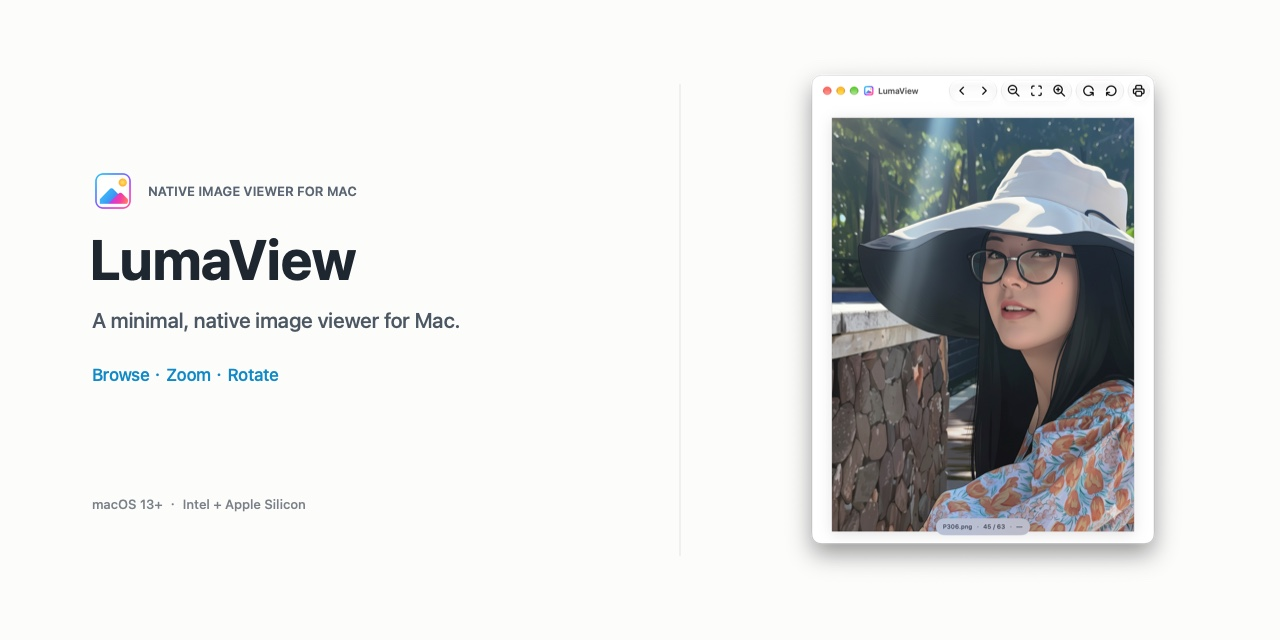
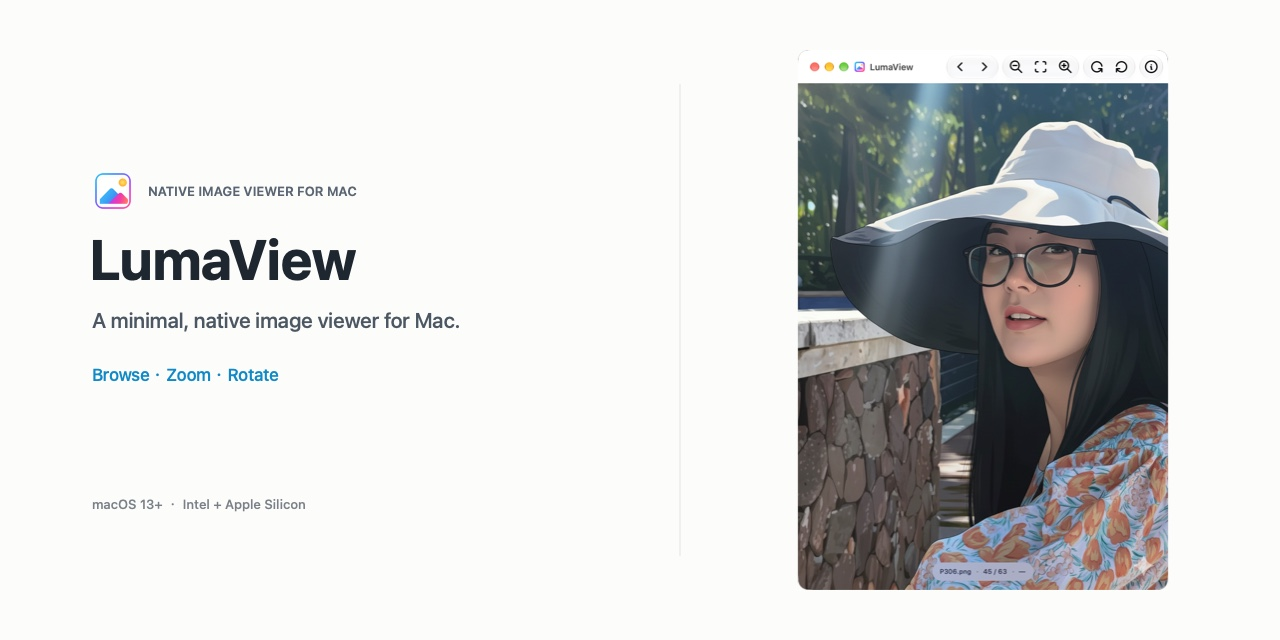
Release LumaView 1.2.7 with canvas fill and refreshed preview

Changed region(s): [[0.625, 0.0938, 0.9375, 0.9375]]

diff --git a/site/app.js b/site/app.js
@@ -3,7 +3,7 @@ const content = {
     navExperience: "体验", navWindows: "多窗口", navPrinciples: "优势", navDownload: "下载", eyebrow: "支持 Intel 与 Apple Silicon Mac",
     seoTitle: "LumaView · 极简的Mac原生看图软件", seoDescription: "一款极简的Mac原生看图软件。", seoSocialDescription: "多窗口并排对比、文件夹前后浏览、大图缩放、旋转与打印。",
     heroTitle: "打开图片，<br /><em>极速浏览。</em>", heroLede: "一款极简的Mac原生看图软件。",
-    downloadButton: "下载 v1.2.6", sourceButton: "查看源码", compatibility: "macOS 13+ · Intel + Apple Silicon · 离线使用", heroImageAlt: "LumaView 在原生窗口中浏览图片，顶部有上一张、下一张、缩放和旋转操作", welcomeImageAlt: "LumaView 原生欢迎界面，中央保留一个打开文件操作",
+    downloadButton: "下载 v1.2.7", sourceButton: "查看源码", compatibility: "macOS 13+ · Intel + Apple Silicon · 离线使用", heroImageAlt: "LumaView 在原生窗口中浏览图片，顶部有上一张、下一张、缩放和旋转操作", welcomeImageAlt: "LumaView 原生欢迎界面，中央保留一个打开文件操作",
     proofOne: "打开即看，画面居中", proofTwo: "多窗口并排对比", proofThree: "Intel + Apple Silicon 通用版",
     experienceEyebrow: "简单看图", experienceTitle: "常用操作，<br /><em>一目了然。</em>",
     featureOneTitle: "文件夹里的上一张 / 下一张", featureOneBody: "从访达或“打开文件”进入后，可用工具栏和方向键切换同一文件夹里的图片。",
@@ -17,7 +17,7 @@ const content = {
     navExperience: "Experience", navWindows: "Windows", navPrinciples: "Principles", navDownload: "Download", eyebrow: "For Intel and Apple Silicon Macs",
     seoTitle: "LumaView · Minimal native image viewer for Mac", seoDescription: "A minimal native image viewer for Mac.", seoSocialDescription: "Side-by-side multi-window comparison, folder browsing, zoom, rotate, and print.",
     heroTitle: "Open an image.<br /><em>Start browsing.</em>", heroLede: "A minimal native image viewer for Mac.",
-    downloadButton: "Download v1.2.6", sourceButton: "View source", compatibility: "macOS 13+ · Intel + Apple Silicon · Works offline", heroImageAlt: "LumaView browsing an image in its native window, with previous, next, zoom, and rotate controls", welcomeImageAlt: "LumaView native welcome screen with a single Open File action",
+    downloadButton: "Download v1.2.7", sourceButton: "View source", compatibility: "macOS 13+ · Intel + Apple Silicon · Works offline", heroImageAlt: "LumaView browsing an image in its native window, with previous, next, zoom, and rotate controls", welcomeImageAlt: "LumaView native welcome screen with a single Open File action",
     proofOne: "Open and view immediately", proofTwo: "Multiple windows, side by side", proofThree: "Universal for Intel + Apple Silicon",
     experienceEyebrow: "Simple image viewing", experienceTitle: "Common actions.<br /><em>Easy to find.</em>",
     featureOneTitle: "Previous / next in the folder", featureOneBody: "Open from Finder or choose a file, then use the toolbar or arrow keys to browse images in the same folder.",
@@ -31,7 +31,7 @@ const content = {
     navExperience: "使い方", navWindows: "複数ウインドウ", navPrinciples: "特徴", navDownload: "ダウンロード", eyebrow: "Intel と Apple Silicon 搭載 Mac に対応",
     seoTitle: "LumaView · ミニマルな Mac ネイティブ画像ビューア", seoDescription: "ミニマルな Mac ネイティブ画像ビューア。", seoSocialDescription: "複数ウインドウでの比較、フォルダ内の画像閲覧、拡大、回転、プリント。",
     heroTitle: "画像を開いて、<br /><em>すばやく見る。</em>", heroLede: "ミニマルな Mac ネイティブ画像ビューア。",
-    downloadButton: "v1.2.6 を入手", sourceButton: "ソースを見る", compatibility: "macOS 13以降 · Intel + Apple Silicon · オフラインで使用", heroImageAlt: "LumaView のネイティブウインドウで画像を表示。上部に前後移動、拡大、回転の操作があります", welcomeImageAlt: "中央に「ファイルを開く」だけを置いた LumaView のネイティブ歓迎画面",
+    downloadButton: "v1.2.7 を入手", sourceButton: "ソースを見る", compatibility: "macOS 13以降 · Intel + Apple Silicon · オフラインで使用", heroImageAlt: "LumaView のネイティブウインドウで画像を表示。上部に前後移動、拡大、回転の操作があります", welcomeImageAlt: "中央に「ファイルを開く」だけを置いた LumaView のネイティブ歓迎画面",
     proofOne: "開いてすぐ見る", proofTwo: "複数ウインドウで比較", proofThree: "Intel + Apple Silicon 対応ユニバーサル版",
     experienceEyebrow: "シンプルな画像閲覧", experienceTitle: "よく使う操作を、<br /><em>ひと目で。</em>",
     featureOneTitle: "フォルダ内を前後に移動", featureOneBody: "Finder または「ファイルを開く」から開いた後、ツールバーまたは矢印キーで同じフォルダ内の画像を移動できます。",

diff --git a/site/index.html b/site/index.html
@@ -23,8 +23,8 @@
     <meta id="og-locale" property="og:locale" content="zh_CN" />
     <meta property="og:locale:alternate" content="en_US" />
     <meta property="og:locale:alternate" content="ja_JP" />
-    <meta property="og:image" content="https://ixiehao.github.io/LumaView/assets/social-preview.jpg?v=20261016-social-clean" />
-    <meta property="og:image:secure_url" content="https://ixiehao.github.io/LumaView/assets/social-preview.jpg?v=20261016-social-clean" />
+    <meta property="og:image" content="https://ixiehao.github.io/LumaView/assets/social-preview.jpg?v=20261017-canvas-fill" />
+    <meta property="og:image:secure_url" content="https://ixiehao.github.io/LumaView/assets/social-preview.jpg?v=20261017-canvas-fill" />
     <meta property="og:image:type" content="image/jpeg" />
     <meta property="og:image:width" content="1280" />
     <meta property="og:image:height" content="640" />
@@ -32,7 +32,7 @@
     <meta name="twitter:card" content="summary_large_image" />
     <meta id="twitter-title" name="twitter:title" content="LumaView · 极简的本地原生看图软件" />
     <meta id="twitter-description" name="twitter:description" content="极简、极速、极致轻量化的 macOS 原生看图软件：多窗口并排对比、文件夹前后浏览、大图缩放、旋转与打印。" />
-    <meta name="twitter:image" content="https://ixiehao.github.io/LumaView/assets/social-preview.jpg?v=20261016-social-clean" />
+    <meta name="twitter:image" content="https://ixiehao.github.io/LumaView/assets/social-preview.jpg?v=20261017-canvas-fill" />
     <meta id="twitter-image-alt" name="twitter:image:alt" content="LumaView native image viewer running on macOS" />
     <title>LumaView · 极简的本地原生看图软件</title>
     <script id="software-schema" type="application/ld+json">
@@ -44,12 +44,12 @@
         "applicationCategory": "MultimediaApplication",
         "applicationSubCategory": "Image Viewer",
         "operatingSystem": "macOS 13 or later",
-        "softwareVersion": "1.2.6",
+        "softwareVersion": "1.2.7",
         "url": "https://ixiehao.github.io/LumaView/",
         "downloadUrl": "https://github.com/ixiehao/LumaView/releases/latest",
         "codeRepository": "https://github.com/ixiehao/LumaView",
         "license": "https://github.com/ixiehao/LumaView/blob/main/LICENSE",
-        "image": "https://ixiehao.github.io/LumaView/assets/social-preview.jpg?v=20261016-social-clean",
+        "image": "https://ixiehao.github.io/LumaView/assets/social-preview.jpg?v=20261017-canvas-fill",
         "screenshot": [
           "https://ixiehao.github.io/LumaView/assets/lumaview-browse.png?v=20261017-alpha",
           "https://ixiehao.github.io/LumaView/assets/lumaview-multiwindow.png?v=20261016-windows-9grid"
@@ -89,7 +89,7 @@
           <h1 data-i18n="heroTitle">打开图片，<br /><em>极速浏览。</em></h1>
           <p class="lede" data-i18n="heroLede">一款极简的Mac原生看图软件。</p>
           <div class="hero-actions">
-            <a class="button button-primary" href="https://github.com/ixiehao/LumaView/releases/latest" target="_blank" rel="noreferrer"><span data-i18n="downloadButton">下载 v1.2.6</span><b aria-hidden="true">↗</b></a>
+            <a class="button button-primary" href="https://github.com/ixiehao/LumaView/releases/latest" target="_blank" rel="noreferrer"><span data-i18n="downloadButton">下载 v1.2.7</span><b aria-hidden="true">↗</b></a>
             <a class="button button-secondary" href="https://github.com/ixiehao/LumaView" target="_blank" rel="noreferrer"><span data-i18n="sourceButton">查看源码</span><b aria-hidden="true">→</b></a>
           </div>
           <p class="compatibility" data-i18n="compatibility">macOS 13+ · Intel + Apple Silicon · 离线使用</p>
@@ -170,7 +170,7 @@
             <p class="eyebrow"><i></i><span data-i18n="readyEyebrow">现在开始看图</span></p>
             <h2 data-i18n="downloadTitle">免费下载<br /><em>LumaView。</em></h2>
           </div>
-          <div class="download-actions"><a class="button button-light" href="https://github.com/ixiehao/LumaView/releases/latest" target="_blank" rel="noreferrer"><span data-i18n="downloadButton">下载 v1.2.6</span><b aria-hidden="true">↗</b></a><p data-i18n="downloadNote">macOS 13+ · Universal (arm64 + x86_64)</p></div>
+          <div class="download-actions"><a class="button button-light" href="https://github.com/ixiehao/LumaView/releases/latest" target="_blank" rel="noreferrer"><span data-i18n="downloadButton">下载 v1.2.7</span><b aria-hidden="true">↗</b></a><p data-i18n="downloadNote">macOS 13+ · Universal (arm64 + x86_64)</p></div>
         </div>
       </section>
     </main>

diff --git a/README.ja.md b/README.ja.md
@@ -4,7 +4,7 @@
 
 画像を 1 枚開けば、同じフォルダ内を続けて閲覧できます。LumaView は画像を中心に据え、日常的な操作をすぐ手の届く場所に置きます。
 
-**[LumaView 1.2.6 ユニバーサル DMG をダウンロード](https://github.com/ixiehao/LumaView/releases/download/v1.2.6/LumaView-1.2.6-universal.dmg)** · [公式サイト](https://ixiehao.github.io/LumaView/?lang=ja) · [English](README.md) · [简体中文](README.zh-CN.md) · [変更履歴](CHANGELOG.md)
+**[LumaView 1.2.7 ユニバーサル DMG をダウンロード](https://github.com/ixiehao/LumaView/releases/download/v1.2.7/LumaView-1.2.7-universal.dmg)** · [公式サイト](https://ixiehao.github.io/LumaView/?lang=ja) · [English](README.md) · [简体中文](README.zh-CN.md) · [変更履歴](CHANGELOG.md)
 
 macOS 13 以降 · Intel + Apple Silicon · ユニバーサル DMG · 約 2 MB
 
@@ -24,7 +24,7 @@ macOS 13 以降 · Intel + Apple Silicon · ユニバーサル DMG · 約 2 MB
 
 ## インストール
 
-1. [ユニバーサル DMG をダウンロード](https://github.com/ixiehao/LumaView/releases/download/v1.2.6/LumaView-1.2.6-universal.dmg)します。
+1. [ユニバーサル DMG をダウンロード](https://github.com/ixiehao/LumaView/releases/download/v1.2.7/LumaView-1.2.7-universal.dmg)します。
 2. 開いた DMG から **LumaView.app** を **アプリケーション** フォルダへドラッグします。
 3. LumaView を開くか、画像をダブルクリックして Finder の「このアプリケーションで開く」から選びます。
 

diff --git a/README.md b/README.md
@@ -5,7 +5,7 @@
 Open an image and browse the rest of its folder. LumaView keeps the picture in
 focus, with the everyday controls close at hand.
 
-**[Download LumaView 1.2.6 · Universal DMG](https://github.com/ixiehao/LumaView/releases/download/v1.2.6/LumaView-1.2.6-universal.dmg)** · [Website](https://ixiehao.github.io/LumaView/?lang=en) · [简体中文](README.zh-CN.md) · [日本語](README.ja.md) · [Changelog](CHANGELOG.md)
+**[Download LumaView 1.2.7 · Universal DMG](https://github.com/ixiehao/LumaView/releases/download/v1.2.7/LumaView-1.2.7-universal.dmg)** · [Website](https://ixiehao.github.io/LumaView/?lang=en) · [简体中文](README.zh-CN.md) · [日本語](README.ja.md) · [Changelog](CHANGELOG.md)
 
 macOS 13+ · Intel + Apple Silicon · Universal DMG · ~2 MB
 
@@ -25,7 +25,7 @@ macOS 13+ · Intel + Apple Silicon · Universal DMG · ~2 MB
 
 ## Install
 
-1. [Download the Universal DMG](https://github.com/ixiehao/LumaView/releases/download/v1.2.6/LumaView-1.2.6-universal.dmg).
+1. [Download the Universal DMG](https://github.com/ixiehao/LumaView/releases/download/v1.2.7/LumaView-1.2.7-universal.dmg).
 2. Open it and drag **LumaView.app** to **Applications**.
 3. Open LumaView, or double-click an image and choose it from Finder's **Open With** menu.
 

diff --git a/README.zh-CN.md b/README.zh-CN.md
@@ -4,7 +4,7 @@
 
 打开一张图片，直接浏览同一文件夹。LumaView 将画面留在中心，把日常操作放在顺手的位置。
 
-**[下载 LumaView 1.2.6 · 通用 DMG](https://github.com/ixiehao/LumaView/releases/download/v1.2.6/LumaView-1.2.6-universal.dmg)** · [官网](https://ixiehao.github.io/LumaView/?lang=zh) · [English](README.md) · [日本語](README.ja.md) · [变更记录](CHANGELOG.md)
+**[下载 LumaView 1.2.7 · 通用 DMG](https://github.com/ixiehao/LumaView/releases/download/v1.2.7/LumaView-1.2.7-universal.dmg)** · [官网](https://ixiehao.github.io/LumaView/?lang=zh) · [English](README.md) · [日本語](README.ja.md) · [变更记录](CHANGELOG.md)
 
 macOS 13+ · Intel + Apple Silicon · 通用版 DMG · 约 2 MB
 
@@ -24,7 +24,7 @@ macOS 13+ · Intel + Apple Silicon · 通用版 DMG · 约 2 MB
 
 ## 安装
 
-1. [下载通用版 DMG](https://github.com/ixiehao/LumaView/releases/download/v1.2.6/LumaView-1.2.6-universal.dmg)。
+1. [下载通用版 DMG](https://github.com/ixiehao/LumaView/releases/download/v1.2.7/LumaView-1.2.7-universal.dmg)。
 2. 打开它，将 **LumaView.app** 拖进“应用程序”。
 3. 直接打开 LumaView，或双击图片后，在访达的“打开方式”中选择它。
 

diff --git a/CHANGELOG.md b/CHANGELOG.md
@@ -4,6 +4,20 @@ All notable user-facing changes are recorded here. Version numbers follow
 `MAJOR.MINOR.PATCH`; a release tag must be `vX.Y.Z` and match the app's
 marketing version.
 
+## 1.2.7 — 2026-10-17
+
+### English
+
+- Match the window to the image canvas below the toolbar, removing the blank strips beside square and portrait images.
+
+### 中文
+
+- 窗口按工具栏下方的实际画布尺寸适配图片，去除正方形与竖图两侧的留白。
+
+### 日本語
+
+- ツールバー下の画像表示領域にウインドウを合わせ、正方形や縦長の画像の左右にできる余白をなくしました。
+
 ## 1.2.6 — 2026-10-17
 
 ### English

diff --git a/docs/RELEASE.md b/docs/RELEASE.md
@@ -4,7 +4,7 @@ LumaView supports **Intel and Apple Silicon Macs** on macOS 13+. Every release s
 
 There are two deliberately distinct paths:
 
-- **Transparent public preview (current v1.2.5):** the ShotMap pattern—an
+- **Transparent public preview (current v1.2.7):** the ShotMap pattern—an
   ad-hoc-signed DMG plus its SHA-256 file, with the Release and README clearly
   saying that it is not Apple-notarized and explaining the one-time Gatekeeper
   recovery action. This is useful for early open-source testing, but must never
